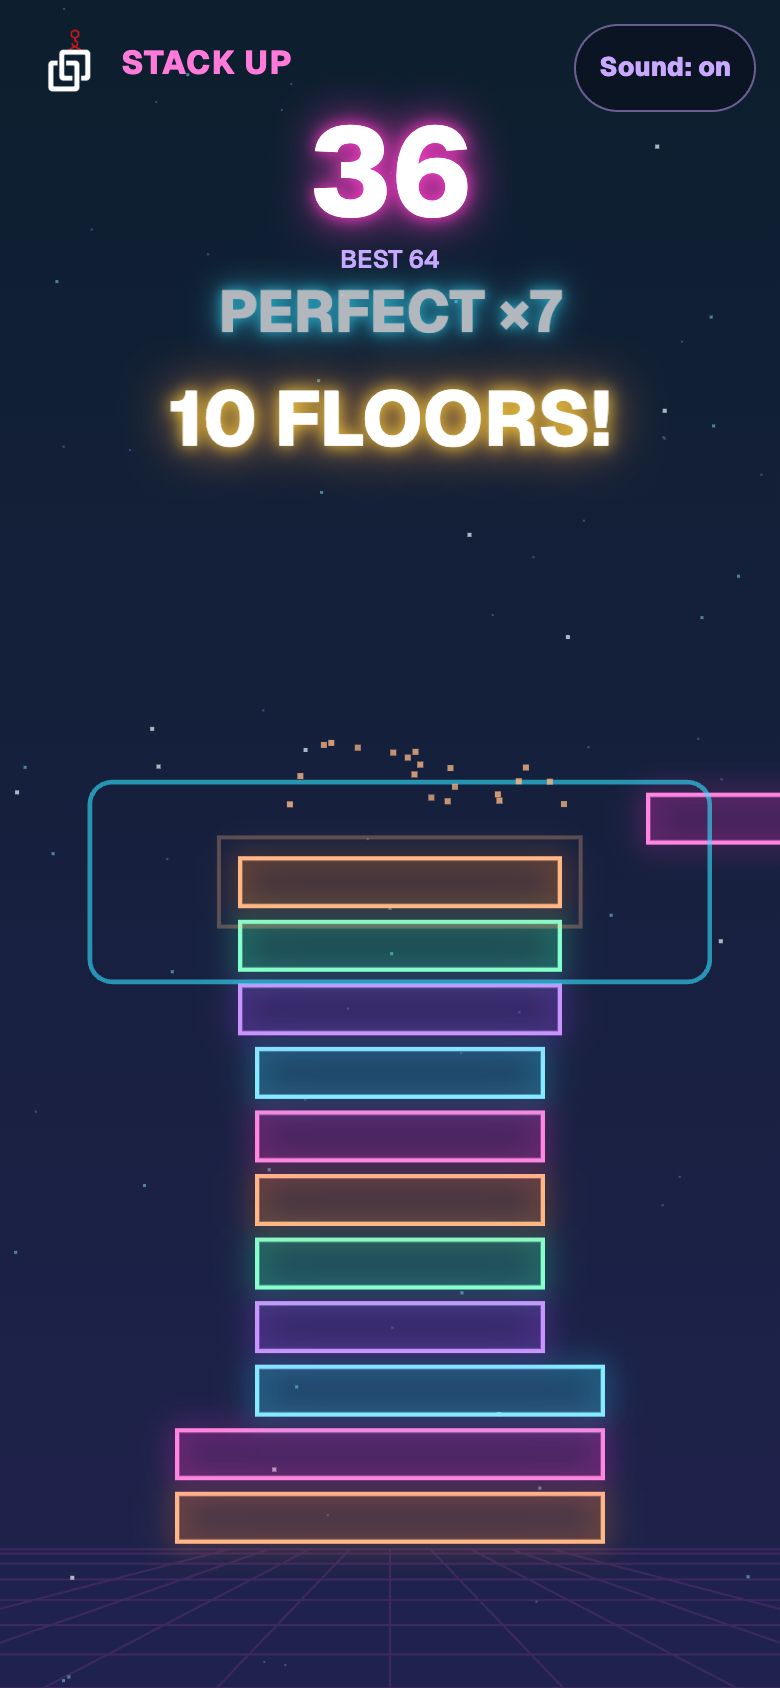
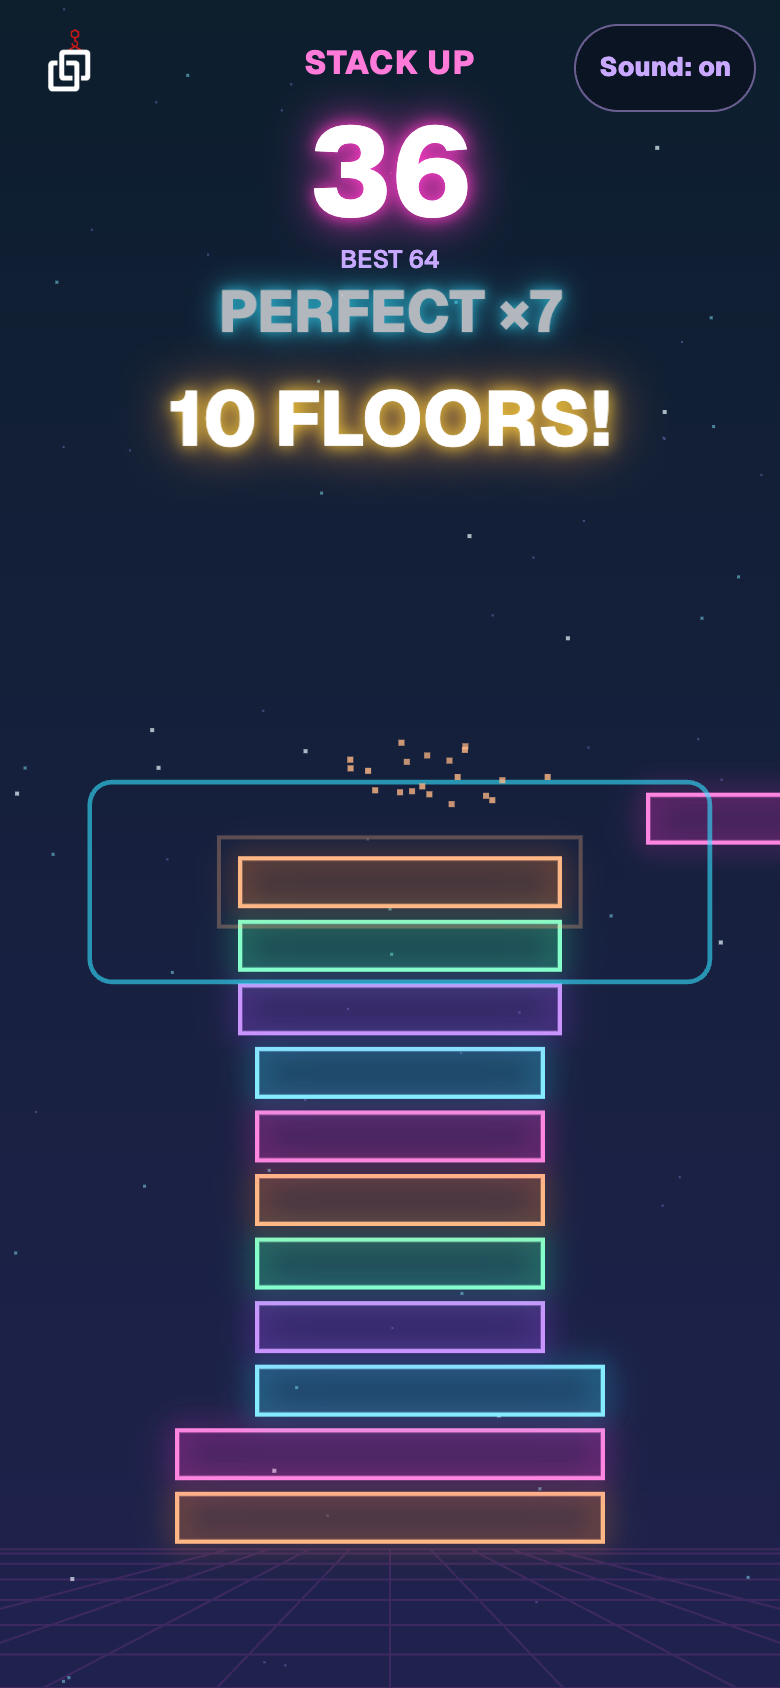
Center the STACK UP text above the score while playing

diff --git a/games/stack-up/src/ui/ui.css b/games/stack-up/src/ui/ui.css
@@ -32,12 +32,18 @@
 .col { position: relative; width: calc(var(--u) * 100); height: 100%; }
 
 /* HUD: HTML 오버레이 + CSS text-shadow. 값이 바뀔 때만 DOM을 갱신하므로 글로우 비용은 변경 시점에만 든다. */
-/* 좌상단 브랜드: 로고(모든 화면) + 플레이 중 STACK UP 문구. 입력은 가로채지 않는다. */
+/* 좌상단 브랜드: DevCol 로고(모든 화면). 입력은 가로채지 않는다. */
 .brand {
   position: absolute; left: calc(var(--u) * 4 + env(safe-area-inset-left, 0px)); top: calc(var(--u) * 3 + env(safe-area-inset-top, 0px));
-  display: flex; align-items: center; gap: calc(var(--u) * 1.5); pointer-events: none; z-index: 1;
+  display: flex; align-items: center; pointer-events: none; z-index: 1;
 }
-.logo { font-size: calc(var(--u) * 4.2); letter-spacing: 0.04em; color: #ff7ad9; white-space: nowrap; }
+/* 플레이/게임 오버의 STACK UP 문구: 열 가운데, 점수(top 14u) 바로 위. 장식이라 aria-hidden.
+   z-index가 없어 게임 오버에서는 반투명 오버레이 아래로 흐려진다(의도). 선명하게 하려면 z-index: 1.
+   안전 영역 위쪽 값이 큰 기기(홈 화면 standalone 노치 iPhone)에서는 점수(top 14u)와 간격이 좁아질 수 있다(이월). */
+.logo {
+  position: absolute; left: 0; right: 0; top: calc(var(--u) * 6 + env(safe-area-inset-top, 0px)); text-align: center; pointer-events: none;
+  font-size: calc(var(--u) * 4.2); line-height: 1.1; letter-spacing: 0.04em; color: #ff7ad9; white-space: nowrap;
+}
 .score {
   position: absolute; left: 0; right: 0; top: calc(var(--u) * 14);
   text-align: center; font-size: calc(var(--u) * 16); line-height: 1;
@@ -160,6 +166,7 @@
 /* 작은 높이(가로 모바일, 작은 iframe): 여백과 보조 문구를 줄인다 */
 @media (max-height: 520px) {
   .brand { top: calc(var(--u) * 2 + env(safe-area-inset-top, 0px)); }
+  .logo { top: calc(var(--u) * 3 + env(safe-area-inset-top, 0px)); }
   .brand-logo { width: calc(var(--u) * 8); height: calc(var(--u) * 8); }
   .over-screen { padding-top: calc(var(--u) * 11 + env(safe-area-inset-top, 0px)); }
   .collapsed { display: none; }

diff --git a/games/stack-up/index.html b/games/stack-up/index.html
@@ -17,8 +17,8 @@
   <div class="col">
     <div class="brand">
       <img class="brand-logo" src="./src/assets/devcol-logo-dark.png" alt="DevCol logo" width="256" height="256" draggable="false">
-      <div class="logo">STACK UP</div>
     </div>
+    <div class="logo" aria-hidden="true">STACK UP</div>
     <button id="mute" class="mute" type="button" data-ui aria-pressed="false">Sound: on</button>
     <div id="score" class="score">0</div>
     <div id="hud-best" class="hud-best" hidden>BEST 0</div>
